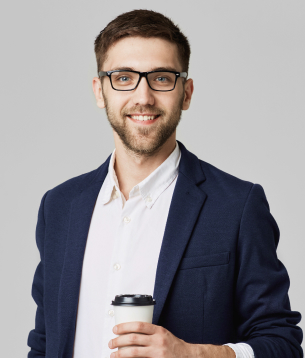
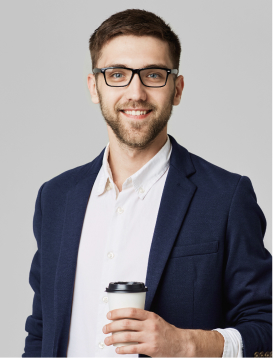
fix: changed pictures for teams section

Changed region(s): [[0.0586, 0.0, 1.0, 1.0], [0.1172, 0.4609, 0.3223, 0.5838], [0.7033, 0.5223, 0.7326, 0.5531]]

diff --git a/js/main.js b/js/main.js
@@ -303,60 +303,60 @@ $(document).ready(function () {
 
     $('[type=tel]').mask('+7(000) 000-00-00');
 
-  //   ymaps.ready(function () {
-  //     var myMap = new ymaps.Map('map', {
-  //             center: [55.751574, 37.573856],
-  //             zoom: 9
-  //         }, {
-  //             searchControlProvider: 'yandex#search'
-  //         }),
+    // ymaps.ready(function () {
+    //   var myMap = new ymaps.Map('map', {
+    //           center: [55.751574, 37.573856],
+    //           zoom: 9
+    //       }, {
+    //           searchControlProvider: 'yandex#search'
+    //       }),
   
-  //         // Создаём макет содержимого.
-  //         MyIconContentLayout = ymaps.templateLayoutFactory.createClass(
-  //             '<div style="color: #FFFFFF; font-weight: bold;">$[properties.iconContent]</div>'
-  //         ),
+    //       // Создаём макет содержимого.
+    //       MyIconContentLayout = ymaps.templateLayoutFactory.createClass(
+    //           '<div style="color: #FFFFFF; font-weight: bold;">$[properties.iconContent]</div>'
+    //       ),
   
-  //         myPlacemark = new ymaps.Placemark(myMap.getCenter(), {
-  //             hintContent: 'Собственный значок метки',
-  //             balloonContent: 'Это красивая метка'
-  //         }, {
-  //             // Опции.
-  //             // Необходимо указать данный тип макета.
-  //             iconLayout: 'default#image',
-  //             // Своё изображение иконки метки.
-  //             iconImageHref: '../img/marker.svg',
-  //             // Размеры метки.
-  //             iconImageSize: [30, 42],
-  //             // Смещение левого верхнего угла иконки относительно
-  //             // её "ножки" (точки привязки).
-  //             iconImageOffset: [-5, -38]
-  //         }),
+    //       myPlacemark = new ymaps.Placemark(myMap.getCenter(), {
+    //           hintContent: 'Собственный значок метки',
+    //           balloonContent: 'Это красивая метка'
+    //       }, {
+    //           // Опции.
+    //           // Необходимо указать данный тип макета.
+    //           iconLayout: 'default#image',
+    //           // Своё изображение иконки метки.
+    //           iconImageHref: '../img/marker.svg',
+    //           // Размеры метки.
+    //           iconImageSize: [30, 42],
+    //           // Смещение левого верхнего угла иконки относительно
+    //           // её "ножки" (точки привязки).
+    //           iconImageOffset: [-5, -38]
+    //       }),
   
-  //         myPlacemarkWithContent = new ymaps.Placemark([55.661574, 37.573856], {
-  //             hintContent: 'Собственный значок метки с контентом',
-  //             balloonContent: 'А эта — новогодняя',
-  //             iconContent: '12'
-  //         }, {
-  //             // Опции.
-  //             // Необходимо указать данный тип макета.
-  //             iconLayout: 'default#imageWithContent',
-  //             // Своё изображение иконки метки.
-  //             iconImageHref: 'img/marker.svg',
-  //             // Размеры метки.
-  //             iconImageSize: [48, 48],
-  //             // Смещение левого верхнего угла иконки относительно
-  //             // её "ножки" (точки привязки).
-  //             iconImageOffset: [-24, -24],
-  //             // Смещение слоя с содержимым относительно слоя с картинкой.
-  //             iconContentOffset: [15, 15],
-  //             // Макет содержимого.
-  //             iconContentLayout: MyIconContentLayout
-  //         });
+    //       myPlacemarkWithContent = new ymaps.Placemark([55.661574, 37.573856], {
+    //           hintContent: 'Собственный значок метки с контентом',
+    //           balloonContent: 'А эта — новогодняя',
+    //           iconContent: '12'
+    //       }, {
+    //           // Опции.
+    //           // Необходимо указать данный тип макета.
+    //           iconLayout: 'default#imageWithContent',
+    //           // Своё изображение иконки метки.
+    //           iconImageHref: 'img/marker.svg',
+    //           // Размеры метки.
+    //           iconImageSize: [48, 48],
+    //           // Смещение левого верхнего угла иконки относительно
+    //           // её "ножки" (точки привязки).
+    //           iconImageOffset: [-24, -24],
+    //           // Смещение слоя с содержимым относительно слоя с картинкой.
+    //           iconContentOffset: [15, 15],
+    //           // Макет содержимого.
+    //           iconContentLayout: MyIconContentLayout
+    //       });
   
-  //     myMap.geoObjects
-  //         .add(myPlacemark)
-  //         .add(myPlacemarkWithContent);
-  // });
+    //   myMap.geoObjects
+    //       .add(myPlacemark)
+    //       .add(myPlacemarkWithContent);
+  });
 });
 
 

diff --git a/css/style.css b/css/style.css
@@ -1203,12 +1203,13 @@ img {
   .team__section-title {
     margin-top: 4rem; }
     .team__section-title-heading {
-      font-size: 1.4rem; }
+      font-size: 1.4rem;
+      margin-bottom: 0.9rem; }
     .team__section-title-image {
       margin-bottom: 1.3rem; }
   .team__description {
     margin: auto;
-    margin-bottom: 5.686rem;
+    margin-bottom: 5.786rem;
     font-family: "Futura Book", sans-serif;
     font-size: 1.428rem;
     line-height: 1.929rem;
@@ -1227,9 +1228,11 @@ img {
     flex-basis: 25%;
     max-width: 19.429rem;
     position: relative; }
+    .team__profile:first-of-type {
+      margin-left: -0.11rem; }
   .team__postscriptum {
     margin: auto;
-    margin-top: 10.1rem;
+    margin-top: 7.5rem;
     color: #131313;
     max-width: 40.571rem;
     font-family: "Futura Book", cursive;
@@ -1258,7 +1261,7 @@ img {
 
 .profile__title {
   position: absolute;
-  bottom: -7.2rem;
+  bottom: -5.2rem;
   width: calc(100% - 2.8rem);
   margin: 0 1.4rem; }
 
@@ -1274,13 +1277,13 @@ img {
 
 .title__name {
   font-family: "Yeseva One", cursive;
-  font-size: 1.328rem;
+  font-size: 1.278rem;
   line-height: 1.929rem;
   text-align: center;
   margin: 0;
-  padding-top: 1.571rem;
+  padding-top: 1.371rem;
   margin-top: 1rem;
-  margin-bottom: 0.243rem; }
+  margin-bottom: 0.143rem; }
 
 .title__job {
   font-family: "Futura Book", sans-serif;
@@ -1289,11 +1292,11 @@ img {
   text-align: center;
   margin: 0;
   padding-bottom: 1.714rem;
-  margin-bottom: -0.5rem; }
+  margin-bottom: -0.3rem; }
 
 .title__experience {
   margin: 0;
-  margin-bottom: 1rem;
+  margin-bottom: 1.3rem;
   padding: 0.929rem 1.643rem;
   font-family: "Yeseva One", cursive;
   font-size: 0.929rem;

diff --git a/sass/templates/_team.sass b/sass/templates/_team.sass
@@ -6,11 +6,12 @@
     margin-top: 4rem
     &-heading
       font-size: 1.4rem
+      margin-bottom: 0.9rem
     &-image
       margin-bottom: 1.3rem
   &__description
     margin: auto
-    margin-bottom: 5.686rem
+    margin-bottom: 5.786rem
     font-family: "Futura Book", sans-serif
     font-size: 1.428rem
     line-height: 1.929rem
@@ -29,9 +30,11 @@
     flex-basis: 25%
     max-width: 19.429rem
     position: relative
+    &:first-of-type
+      margin-left: -0.11rem
   &__postscriptum
     margin: auto
-    margin-top: 10.1rem
+    margin-top: 7.5rem
     color: $dark
     max-width: 40.571rem
     font-family: "Futura Book", cursive
@@ -59,7 +62,7 @@
     align-items: center
   &__title
     position: absolute
-    bottom: -7.2rem
+    bottom: -5.2rem
     width: calc(100% - 2.8rem)
     margin: 0 1.4rem
 .title
@@ -73,13 +76,13 @@
     margin: 0
   &__name
     font-family: "Yeseva One", cursive
-    font-size: 1.328rem
+    font-size: 1.278rem
     line-height: 1.929rem
     text-align: center
     margin: 0
-    padding-top: 1.571rem
+    padding-top: 1.371rem
     margin-top: 1rem
-    margin-bottom: 0.243rem
+    margin-bottom: 0.143rem
   &__job
     font-family: "Futura Book", sans-serif
     font-size: 1.286rem
@@ -87,10 +90,10 @@
     text-align: center
     margin: 0
     padding-bottom: 1.714rem
-    margin-bottom: -0.5rem
+    margin-bottom: -0.3rem
   &__experience
     margin: 0
-    margin-bottom: 1rem
+    margin-bottom: 1.3rem
     padding: 0.929rem 1.643rem
     font-family: "Yeseva One", cursive
     font-size: 0.929rem
